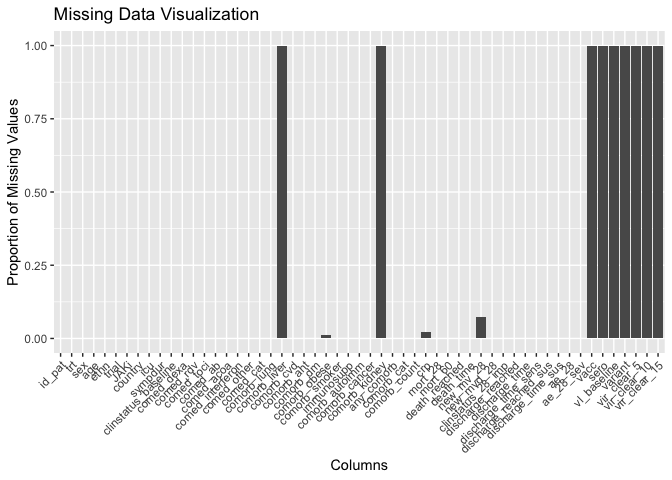
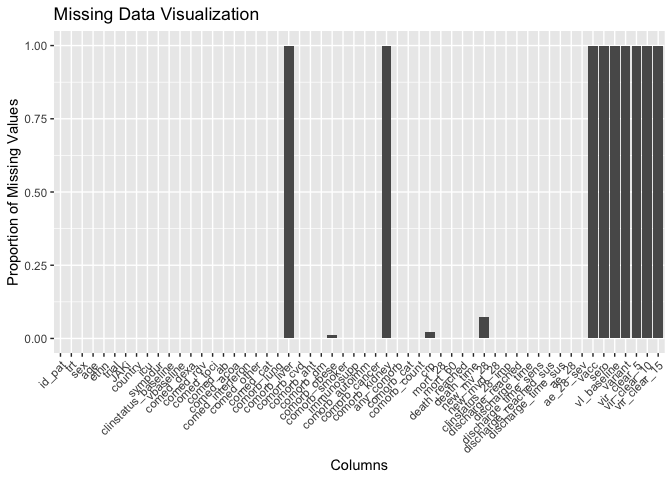
udpated ghazaeian: vbaseline

Changed region(s): [[0.0938, 0.0625, 0.9688, 0.9375], [0.0625, 0.7812, 0.0938, 0.8125]]

diff --git a/Ghazaeian.md b/Ghazaeian.md
@@ -114,6 +114,10 @@ df <- score_transform(df, clinstatus_7, df$clinstatus_7)
 df <- score_transform(df, clinstatus_14, df$clinstatus_14)
 df <- score_transform(df, clinstatus_28, df$`clinstatus-28`)
 
+df <- df %>% 
+  mutate(vbaseline = case_when(clinstatus_baseline == "2" | clinstatus_baseline == "3" ~ 0,
+                                clinstatus_baseline == "4" | clinstatus_baseline == "5" ~ 1))
+
 # Co-medication at baseline
 class(df$"Comed-Dexa")
 ```
@@ -358,7 +362,7 @@ df <- df %>%
   select(id_pat, trt, sex, age, ethn, trial, JAKi, 
          country, icu, sympdur, 
          #vacc, 
-         clinstatus_baseline,
+         clinstatus_baseline, vbaseline,
          comed_dexa, comed_rdv, comed_toci, comed_ab, comed_acoa, comed_interferon, comed_other,
          comed_cat,
          comorb_lung, comorb_liver, comorb_cvd, comorb_aht, comorb_dm, comorb_obese, comorb_smoker, immunosupp,
@@ -1329,15 +1333,8 @@ Discussion points
 
 ```r
 # table(df$clinstatus_baseline, df$mort_28, useNA = "always") # 2 - 3 included
-# table(df$clinstatus_baseline, df$mort_28, df$trt, useNA = "always") # 0 in 2x2 table
-class(df$clinstatus_baseline)
-```
-
-```
-## [1] "factor"
-```
-
-```r
+# table(df$vbaseline, df$mort_28, useNA = "always") # 0 in 2x2 table
+# class(df$clinstatus_baseline)
 df$clinstatus_baseline_n <- as.numeric(df$clinstatus_baseline)
 
 mort.28.vent <- df %>% 
@@ -1426,42 +1423,49 @@ summ(mort.28.vent, exp = T, confint = T, model.info = T, model.fit = F, digits =
 mort.28.vent.firth <- df %>% 
   logistf(mort_28 ~ trt*clinstatus_baseline_n
       + age 
-      + clinstatus_baseline 
+      #+ clinstatus_baseline 
       #+ comed_dexa + comed_rdv + comed_toci
       , data=.)
 summary(mort.28.vent.firth)
 ```
 
 ```
-## logistf(formula = mort_28 ~ trt * clinstatus_baseline_n + age + 
-##     clinstatus_baseline, data = .)
+## logistf(formula = mort_28 ~ trt * clinstatus_baseline_n + age, 
+##     data = .)
 ## 
 ## Model fitted by Penalized ML
 ## Coefficients:
-##                                   coef    se(coef)   lower 0.95  upper 0.95
-## (Intercept)                3.921932195 7.838165237 -114.7212086 104.5504731
-## trt                       -0.040505356 0.214043035 -101.7500617  29.0250711
-## clinstatus_baseline_n     -0.839413412 1.254978703  -41.8130839  52.4993314
-## age                       -0.035633146 0.091043986   -0.2125685   0.3452410
-## clinstatus_baseline3       0.527964060 0.011652629   -7.7777974  21.3004901
-## trt:clinstatus_baseline_n  0.002267923 0.002500404   -0.4062278   0.3863562
-##                           Chisq p method
-## (Intercept)                   0 1      2
-## trt                           0 1      2
-## clinstatus_baseline_n         0 1      2
-## age                           0 1      2
-## clinstatus_baseline3          0 1      2
-## trt:clinstatus_baseline_n     0 1      2
+##                                    coef   se(coef)   lower 0.95 upper 0.95
+## (Intercept)               -1.594494e+00 4.86180692 -16.51379031 6.58451097
+## trt                       -1.953276e-01 0.73443023  -8.54199877 2.45329861
+## clinstatus_baseline_n     -6.743902e-01 1.62421666  -3.40628862 4.31000843
+## age                        2.484561e-02 0.02230260  -0.02064775 0.07186912
+## trt:clinstatus_baseline_n  2.434075e-18 0.03278866  -6.42646040 6.42646040
+##                                  Chisq         p method
+## (Intercept)               1.106933e-01 0.7393562      2
+## trt                       0.000000e+00 1.0000000      2
+## clinstatus_baseline_n     1.520923e-01 0.6965439      2
+## age                       1.122698e+00 0.2893383      2
+## trt:clinstatus_baseline_n 5.684342e-13 0.9999994      2
 ## 
 ## Method: 1-Wald, 2-Profile penalized log-likelihood, 3-None
 ## 
-## Likelihood ratio test=151.69 on 5 df, p=0, n=97
-## Wald test = 2397.112 on 5 df, p = 0
+## Likelihood ratio test=1.156863 on 4 df, p=0.8851485, n=97
+## Wald test = 42.28886 on 4 df, p = 1.453298e-08
+```
+
+```r
+# vbaseline
+# mort.28.vent.vb.firth <- df %>% 
+#   logistf(mort_28 ~ trt*vbaseline
+#       + age 
+#       #+ clinstatus_baseline 
+#       #+ comed_dexa + comed_rdv + comed_toci
+#       , data=.)
+# summary(mort.28.vent.vb.firth)
 ```
 Discussion points
-1. How to apply rare event correction to interaction estimation?
-2. Firth regression?
-3. numeric or factor?
+1. Firth regression works for clinstatus_baseline but not for vbaseline
 
 # Subgroup analysis: Age on primary endpoint
 
@@ -2017,21 +2021,44 @@ summ(mort.28.comed, exp = T, confint = T, model.info = T, model.fit = F, digits 
 </table>
 
 ```r
-# comedication as ordinal factor
-# df$comed_cat_f <- factor(df$comed_cat, levels = 1:4)
-# table(df$comed_cat_f, df$mort_28, useNA = "always") 
-# mort.28.comed.f <- df %>%
-#   glm(mort_28 ~ trt*comed_cat_f 
-#       + age 
-#       + clinstatus_baseline 
-#       # + comed_dexa 
-#       + comed_rdv 
-#       # + comed_toci
-#       , family = "binomial", data=.)
-# summ(mort.28.comed.f, exp = T, confint = T, model.info = T, model.fit = F, digits = 2)
+# Firth regression
+mort.28.comed.firth <- df %>%
+  logistf(mort_28 ~ trt*comed_cat
+      + age
+      + clinstatus_baseline
+      #+ comed_dexa + comed_rdv + comed_toci
+      , data=.)
+summary(mort.28.comed.firth)
+```
+
+```
+## logistf(formula = mort_28 ~ trt * comed_cat + age + clinstatus_baseline, 
+##     data = .)
+## 
+## Model fitted by Penalized ML
+## Coefficients:
+##                              coef    se(coef)  lower 0.95  upper 0.95
+## (Intercept)          -2.367767608 0.498647282 -5.37473605 -0.27150849
+## trt                  -0.132602845 0.755384692 -6.51770842  2.74495000
+## comed_cat             0.006176520 0.015597918 -1.59862398  2.67322842
+## age                   0.003782100 0.002365689 -0.02493716  0.05313793
+## clinstatus_baseline3 -0.213089716 0.146926420 -3.25419082  1.90832488
+## trt:comed_cat        -0.005673973 0.034182289 -7.24325719  2.05886105
+##                            Chisq         p method
+## (Intercept)          0.000000000 1.0000000      2
+## trt                  0.000000000 1.0000000      2
+## comed_cat            0.000000000 1.0000000      2
+## age                  0.224217051 0.6358454      2
+## clinstatus_baseline3 0.235142455 0.6277367      2
+## trt:comed_cat        0.003800159 0.9508452      2
+## 
+## Method: 1-Wald, 2-Profile penalized log-likelihood, 3-None
+## 
+## Likelihood ratio test=0.1959682 on 5 df, p=0.9991566, n=97
+## Wald test = 47.56424 on 5 df, p = 4.359034e-09
 ```
 Discussion points
-1. Only Category 3 available => not possible / all (intervention + control) also had dexa and rdv. No-one had toci.
+1. Only Category 3 available. All (intervention + control) also had dexa and rdv. No-one had toci.
 
 # Subgroup analysis: Vaccination on adverse events
 
@@ -2240,7 +2267,6 @@ summ(mort.28.crp, exp = T, confint = T, model.info = T, model.fit = F, digits = 
 <sup></sup> Standard errors: MLE</td></tr></tfoot>
 </table>
 Discussion points
-1. Truncated or not? How to standardize across studies (see Barisolidact)
 
 # SENS Subgroup analysis: Variant on primary endpoint
 
@@ -2285,7 +2311,7 @@ extract_trt_results <- function(model, variable_name, n_int, n_cont) {
     hazard_odds_ratio <- exp(trt_coef)
     ci <- c(exp(model$ci.lower["trt"]), exp(model$ci.upper["trt"]))
     se <- sqrt(diag(vcov(model)))["trt"]
-    p_value <- NA # how to extract directly from the object?
+    p_value <- model$prob["trt"]
   } else {
     stop("Unsupported model class")
   }
@@ -2379,8 +2405,8 @@ kable(result_df, format = "markdown", table.attr = 'class="table"') %>%
 |trt6  |discharge within 28 days, death=comp.event |         0.7381029| 0.4797810|   1.135510|      0.2197763| 0.1670538|             46|        51|Ghazaeian |Tofacitinib |
 |trt7  |discharge within 28 days, death=hypo.event |         0.8231640| 0.5400812|   1.254624|      0.2150223| 0.3654539|             46|        51|Ghazaeian |Tofacitinib |
 |trt8  |sustained discharge within 28 days         |         0.7381029| 0.4797810|   1.135510|      0.2197763| 0.1670538|             46|        51|Ghazaeian |Tofacitinib |
-|trt9  |any AE grade 3,4 within 28 days_firth      |         3.2247381| 0.1701822| 472.450898|      1.4759989|        NA|             46|        51|Ghazaeian |Tofacitinib |
-|trt10 |AEs grade 3,4 within 28 days_firth         |         3.2247381| 0.1701822| 472.450898|      1.4759989|        NA|             46|        51|Ghazaeian |Tofacitinib |
+|trt9  |any AE grade 3,4 within 28 days_firth      |         3.2247381| 0.1701822| 472.450898|      1.4759989| 0.4412199|             46|        51|Ghazaeian |Tofacitinib |
+|trt10 |AEs grade 3,4 within 28 days_firth         |         3.2247381| 0.1701822| 472.450898|      1.4759989| 0.4412199|             46|        51|Ghazaeian |Tofacitinib |
 |1     |any AE grade 3,4 within 28 days_0.5-corr   |         3.3956044| 0.1349000|  85.440000|     21.7615051| 0.9552013|             46|        51|Ghazaeian |Tofacitinib |
 
 ```r
@@ -2388,7 +2414,6 @@ kable(result_df, format = "markdown", table.attr = 'class="table"') %>%
 saveRDS(result_df, file = "trt_effects_ghazaeian.RData")
 ```
 Discussion points
-1. Adjustments across all models.
 
 # Collect all interaction estimates (stage one)
 
@@ -2402,13 +2427,24 @@ interaction_df <- data.frame(
   standard_error = numeric(),
   p_value = numeric()
 )
+
 # Extract and format results for the interaction term
 extract_interaction <- function(model, variable_name) {
+  if (inherits(model, "glm") || inherits(model, "clm")) {
       trt_coef <- coef(model)[grep("^trt:", names(coef(model)))]
       log_odds_ratio <- exp(trt_coef)
       ci <- exp(confint(model)[grep("^trt:", names(coef(model))), ])
       se <- summary(model)$coefficients[grep("^trt:", names(coef(model))), "Std. Error"]
       p_value <- summary(model)$coefficients[grep("^trt:", names(coef(model))), "Pr(>|z|)"]
+  } else if (inherits(model, "logistf")) {
+      trt_coef <- coef(model)[grep("^trt:", names(coef(model)))]
+      log_odds_ratio <- exp(trt_coef)
+      ci <- exp(confint(model)[grep("^trt:", names(coef(model))), ])
+      se <- sqrt(diag(vcov(model)))[grep("^trt:", names(coef(model)))]
+      p_value <- model$prob[grep("^trt:", names(coef(model)))]
+  } else {
+    stop("Unsupported model class")
+  }
       # capture the results
       result <- data.frame(
         variable = variable_name,
@@ -2424,13 +2460,14 @@ extract_interaction <- function(model, variable_name) {
 # Loop through
 result_list <- list()
 
-# result_list[[1]] <- extract_interaction(mort.28.vent, "respiratory support")
+result_list[[1]] <- extract_interaction(mort.28.vent.firth, "respiratory support_firth") # adj: age, clinstatus
+# result_list[[2]] <- extract_interaction(mort.28.vent.vb.firth, "ventilation") # adj: age, clinstatus // not possible
 result_list[[3]] <- extract_interaction(mort.28.age, "age") # adj: age, clinstatus
 result_list[[4]] <- extract_interaction(mort.28.comorb, "comorbidity") # adj: age, clinstatus
-# result_list[[x]] <- extract_interaction(mort.28.comed, "comedication") # not possible
-# result_list[[x]] <- extract_interaction(ae.28.vacc, "vaccination on AEs") # not available
-result_list[[5]] <- extract_interaction(mort.28.symp, "symptom duration") # adj: age, clinstatus
-result_list[[6]] <- extract_interaction(mort.28.crp, "crp") # adj: age, clinstatus
+result_list[[5]] <- extract_interaction(mort.28.comed.firth, "comedication_firth") # adj: age, clinstatus
+# result_list[[6]] <- extract_interaction(ae.28.vacc, "vaccination on AEs") # not available
+result_list[[7]] <- extract_interaction(mort.28.symp, "symptom duration") # adj: age, clinstatus
+result_list[[8]] <- extract_interaction(mort.28.crp, "crp") # adj: age, clinstatus
 # result_list[[x]] <- extract_interaction(mort.28.var, "variant") # not available
 
 # Filter out NULL results and bind the results into a single data frame
@@ -2467,17 +2504,19 @@ kable(interaction_df, format = "markdown", table.attr = 'class="table"') %>%
 
 
 
-|               |variable                  | log_odds_ratio|  ci_lower|  ci_upper| standard_error|   p_value|trial     |JAKi        |
-|:--------------|:-------------------------|--------------:|---------:|---------:|--------------:|---------:|:---------|:-----------|
-|trt:age        |age                       |      1.0504721| 0.9508741|  1.180266|      0.0531186| 0.3539392|Ghazaeian |Tofacitinib |
-|trt:comorb_cat |comorbidity               |      1.9139158| 0.3278192| 16.486883|      0.9500040| 0.4944083|Ghazaeian |Tofacitinib |
-|trt:sympdur    |symptom duration          |      1.1956574| 0.6406956|  2.362071|      0.3232509| 0.5803940|Ghazaeian |Tofacitinib |
-|trt:crp        |crp                       |      0.9966468| 0.9552354|  1.034729|      0.0196176| 0.8640553|Ghazaeian |Tofacitinib |
-|trt            |respiratory support_firth |      0.9603040| 0.6661584|  1.471609|      0.0327887| 0.9999994|Ghazaeian |Tofacitinib |
+|                          |variable                  | log_odds_ratio|  ci_lower|   ci_upper| standard_error|   p_value|trial     |JAKi        |
+|:-------------------------|:-------------------------|--------------:|---------:|----------:|--------------:|---------:|:---------|:-----------|
+|trt:clinstatus_baseline_n |respiratory support_firth |      1.0000000| 0.0016182| 617.982662|      0.0327887| 0.9999994|Ghazaeian |Tofacitinib |
+|trt:age                   |age                       |      1.0504721| 0.9508741|   1.180266|      0.0531186| 0.3539392|Ghazaeian |Tofacitinib |
+|trt:comorb_cat            |comorbidity               |      1.9139158| 0.3278192|  16.486883|      0.9500040| 0.4944083|Ghazaeian |Tofacitinib |
+|trt:comed_cat             |comedication_firth        |      0.9943421| 0.0007150|   7.837039|      0.0341823| 0.9508452|Ghazaeian |Tofacitinib |
+|trt:sympdur               |symptom duration          |      1.1956574| 0.6406956|   2.362071|      0.3232509| 0.5803940|Ghazaeian |Tofacitinib |
+|trt:crp                   |crp                       |      0.9966468| 0.9552354|   1.034729|      0.0196176| 0.8640553|Ghazaeian |Tofacitinib |
+|trt                       |respiratory support_firth |      0.8225652| 0.0016182| 617.982662|      0.0327887| 0.9999994|Ghazaeian |Tofacitinib |
 
 ```r
 # Save
 saveRDS(interaction_df, file = "int_effects_ghazaeian.RData")
 ```
 Discussion points
-1. Adjustments across all models. Firth?
+
